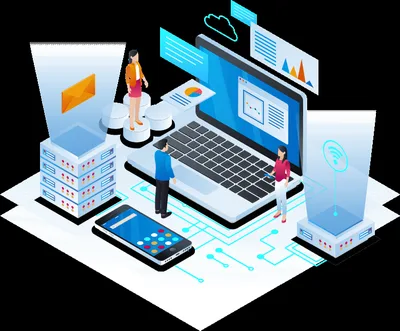
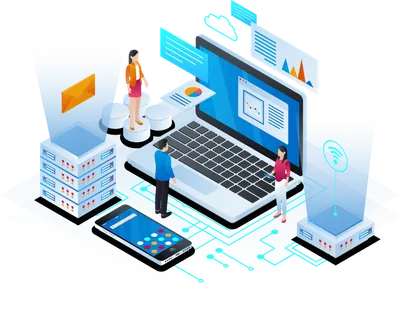
fixed hero image

diff --git a/scripts/optimize-homepage-images.py b/scripts/optimize-homepage-images.py
@@ -7,8 +7,13 @@ def process_image(src_path, dest_path, max_width=None, max_height=None, quality=
         return
 
     with Image.open(src_path) as img:
-        if img.mode not in ('RGB', 'RGBA'):
-            img = img.convert('RGBA') if 'A' in img.mode else img.convert('RGB')
+        # Palette PNGs store transparency in tRNS, not as an alpha mode.
+        # Converting those to RGB flattens transparent pixels to black.
+        has_alpha = img.mode in ('RGBA', 'LA', 'PA') or 'transparency' in img.info
+        if has_alpha and img.mode != 'RGBA':
+            img = img.convert('RGBA')
+        elif not has_alpha and img.mode != 'RGB':
+            img = img.convert('RGB')
 
         orig_w, orig_h = img.size
         new_w, new_h = orig_w, orig_h
